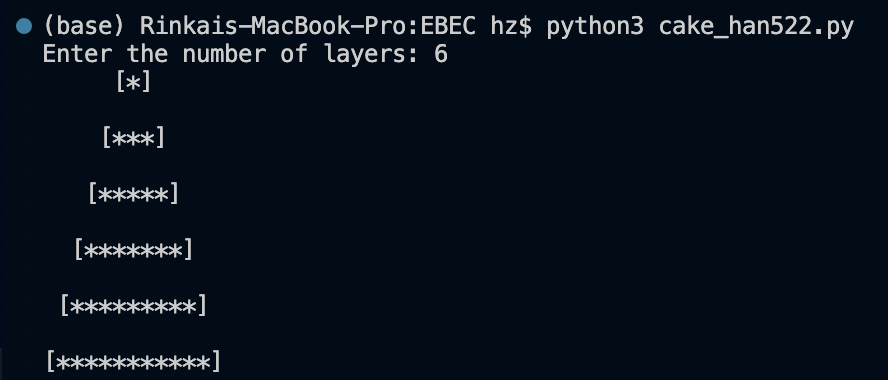
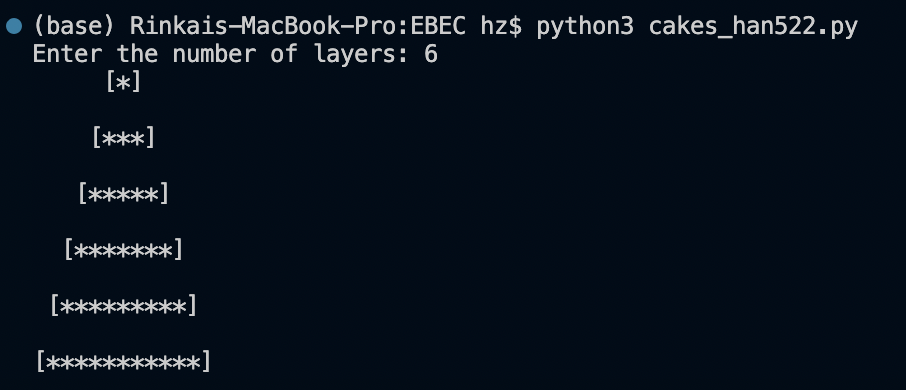
Add files via upload

diff --git a/cakes_han522.py b/cakes_han522.py
@@ -1,0 +1,60 @@
+"""
+Author: Near Han, han522@purdue.edu
+Assignment: 03.1 - Cakes
+Date: 09/26/2022
+
+Description:
+    This program prints a certain layer of pyrimid as user input.
+
+Contributors:
+    N/A
+
+My contributor(s) helped me:
+    [ ] understand the assignment expectations without
+        telling me how they will approach it.
+    [ ] understand different ways to think about a solution
+        without helping me plan my solution.
+    [ ] think through the meaning of a specific error or
+        bug present in my code without looking at my code.
+    Note that if you helped somebody else with their code, you
+    have to list that person as a contributor.
+
+Academic Integrity Statement:
+    I have not used source code obtained from any unauthorized
+    source, either modified or unmodified; nor have I provided
+    another student access to my code.  The project I am
+    submitting is my own original work.
+"""
+
+"""Import additional modules below this line (starting with unit 6)."""
+
+
+"""Write new functions below this line (starting with unit 4)."""
+
+
+def main():
+    #Intake number of layer
+    n = int(input("Enter the number of layers: "))
+    space = n
+    #Count printing rows
+    for i in range(0, n):
+        #Print leading space
+        for j in range(0, space):
+            if j == space - 1:
+                print("[", end = "")
+            else:
+                print(end = " ")             
+        space = space - 1
+        if space == -1:
+            print("[", end = "")
+        #Printing stars
+        for k in range(0, 2*i+1):
+            print("*", end = "")
+        print("]")
+        print("\r")
+ 
+    # for i in range(n): print(f"{'*'*(2*i+1):>{n+i}}")
+
+"""Do not change anything below this line."""
+if __name__ == "__main__":
+    main()
